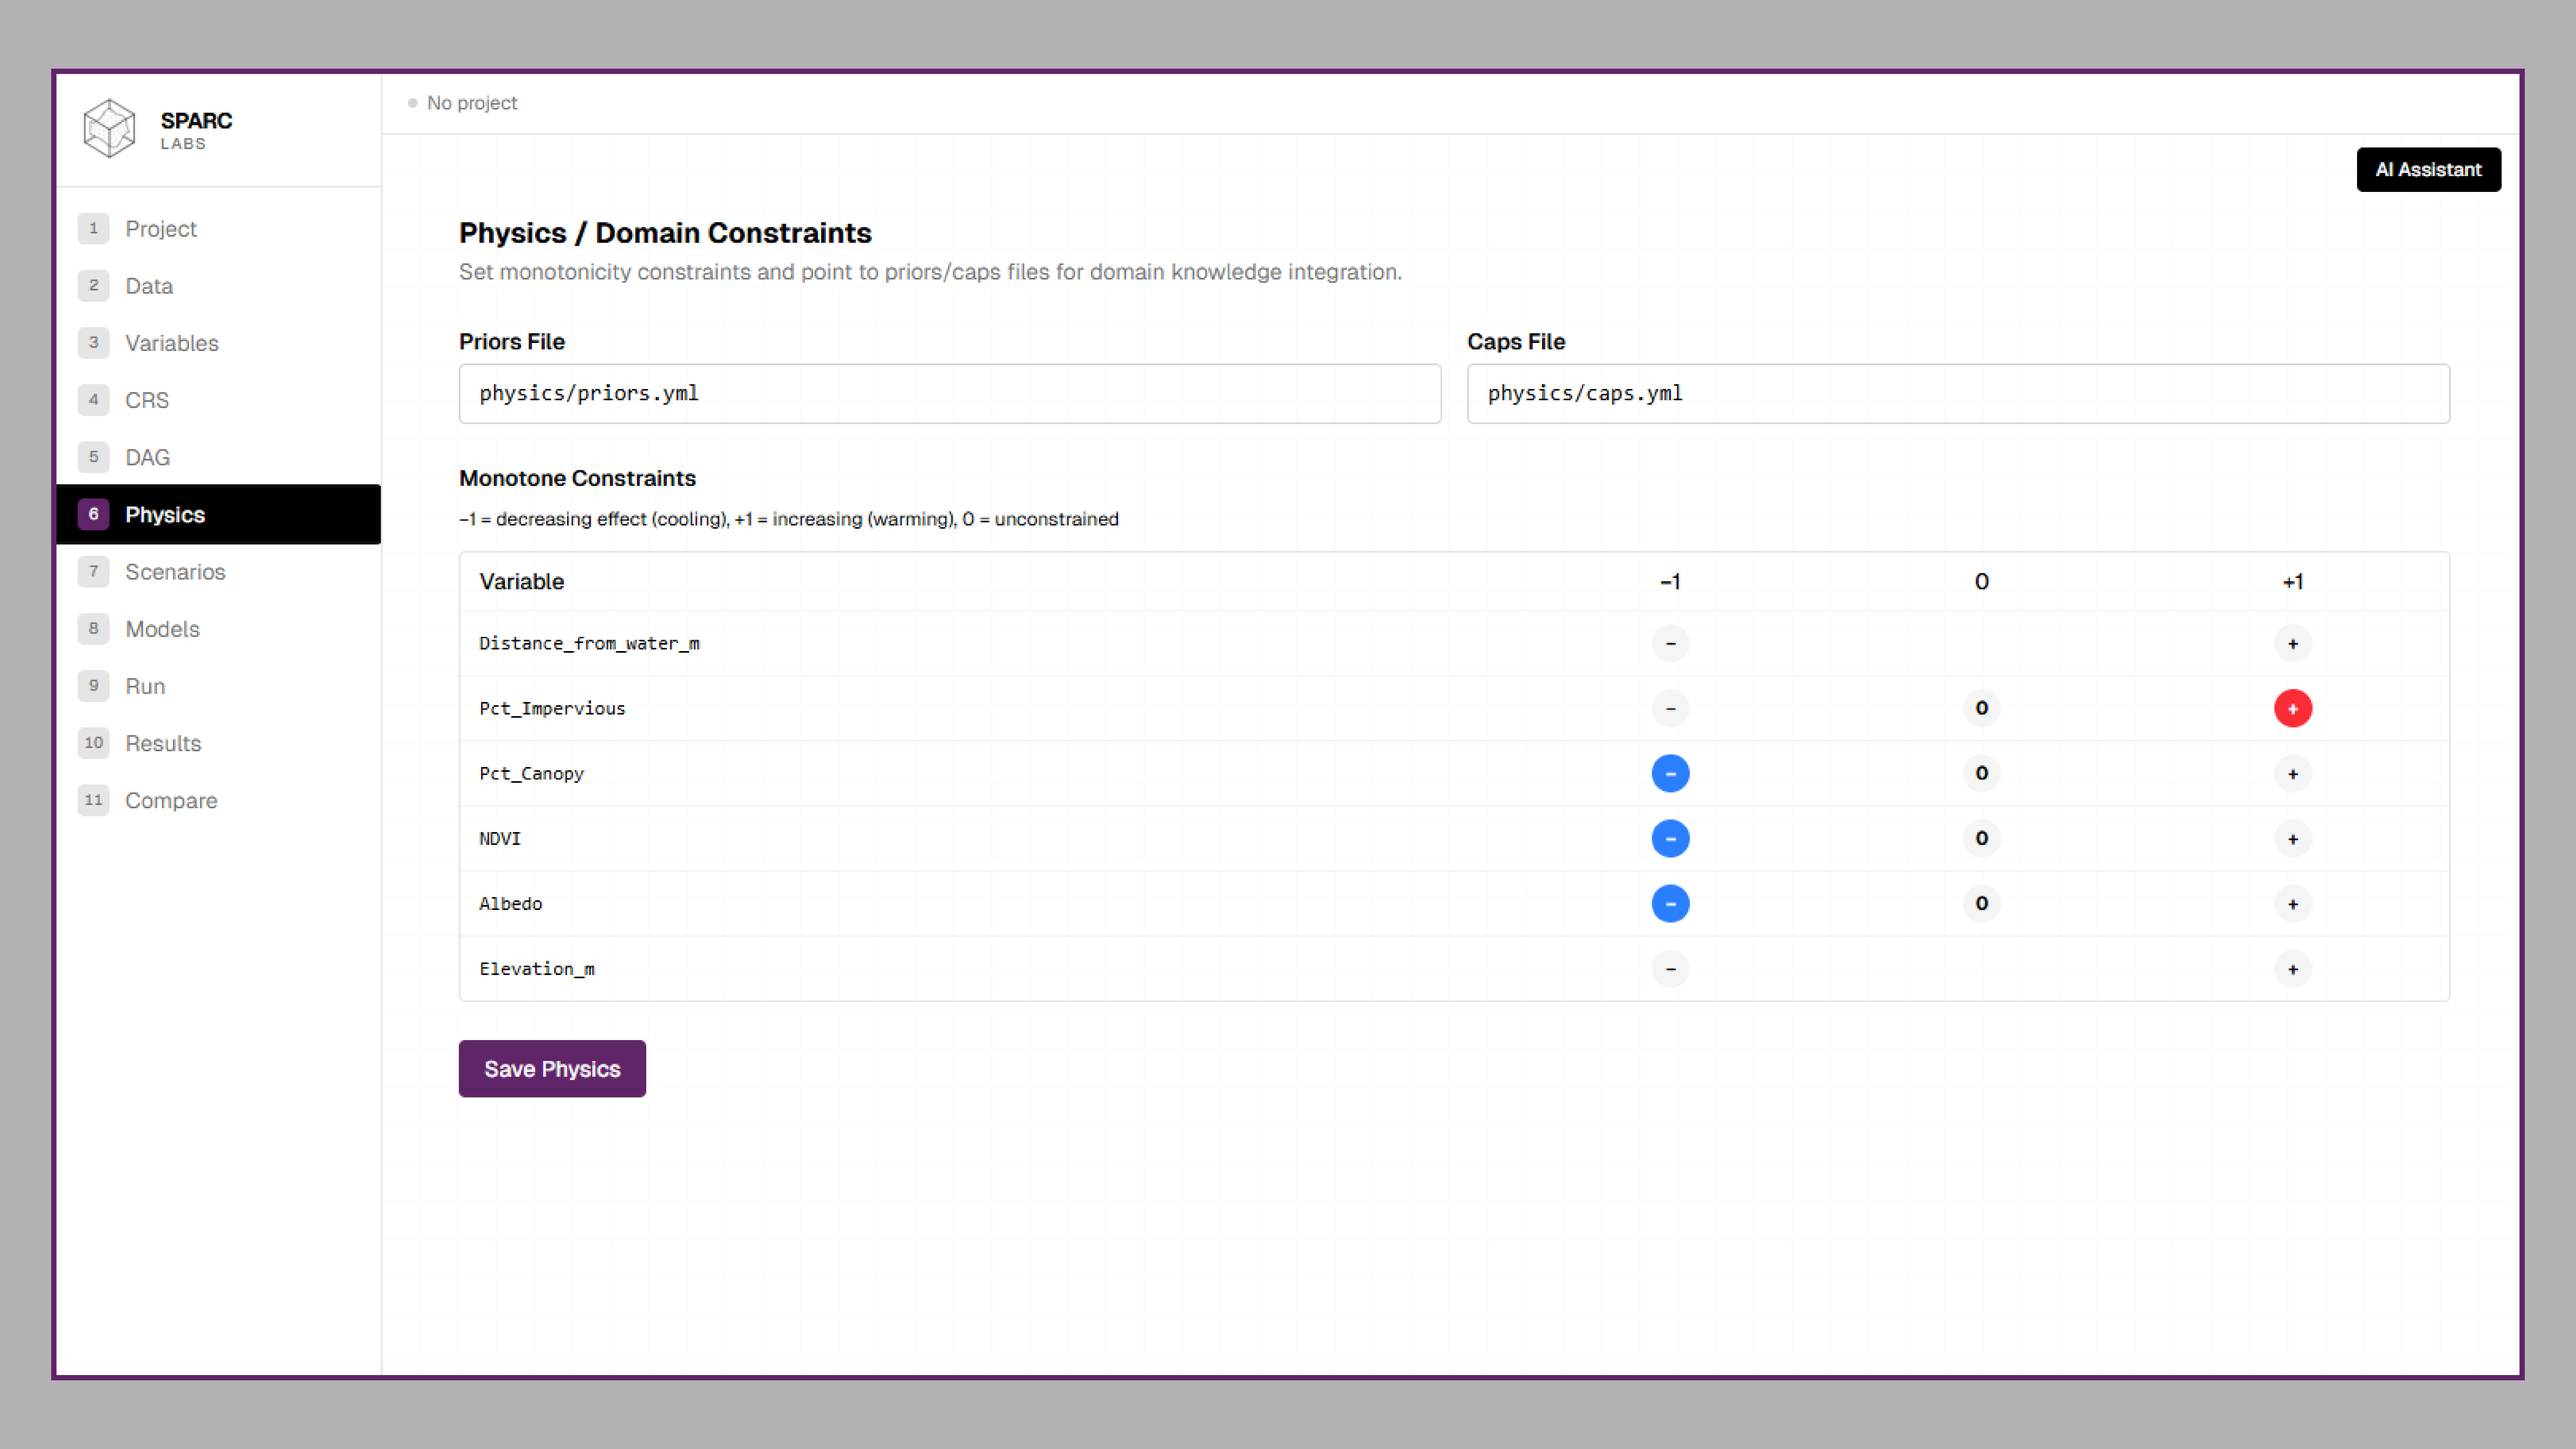
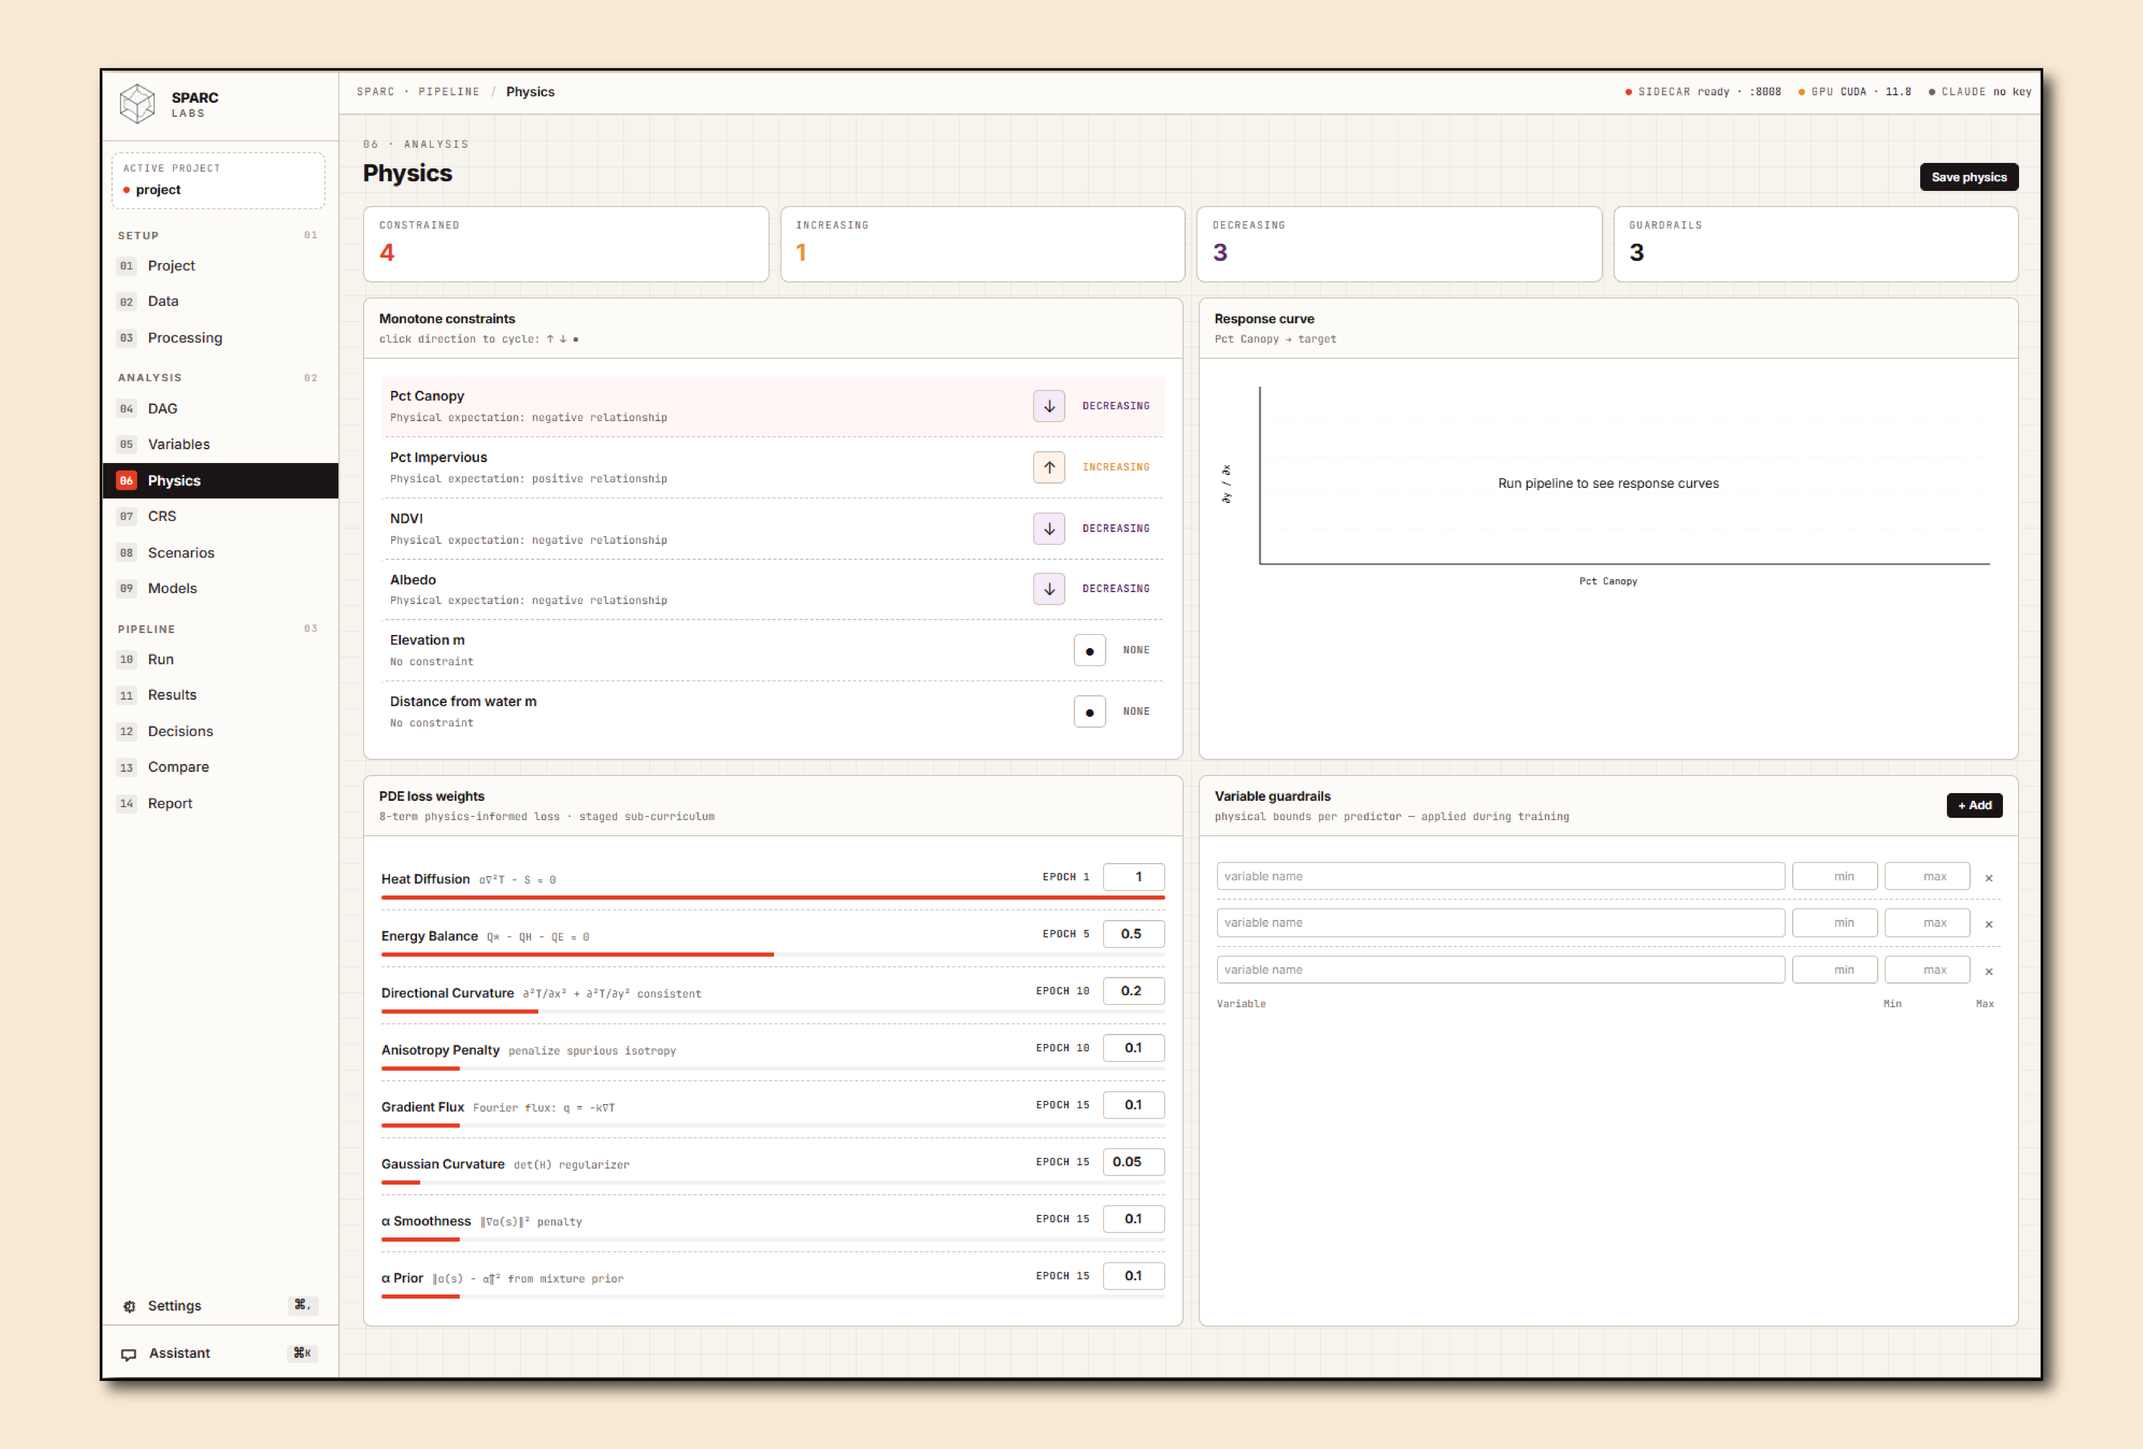
README Update

diff --git a/README.md b/README.md
@@ -16,9 +16,9 @@
 [![Platform](https://img.shields.io/badge/platform-Windows%20%7C%20macOS%20%7C%20Linux-lightgrey.svg)](#installation)
 [![Academic Partnerships](https://img.shields.io/badge/open%20for-Academic%20Partnerships-8A2BE2.svg)](mailto:sparcurbanlabs@gmail.com)
 
-**SPARC turns environmental and infrastructure data into causal, uncertainty-quantified intervention scenarios — powered by physics-constrained spatial machine learning.**
+**SPARC turns environmental and infrastructure data into causal, uncertainty-quantified intervention scenarios — powered by physics-constrained spatial machine learning and Bayesian causal inference.**
 
-Published in [*Urban Climate* (2025)](https://doi.org/10.1016/j.uclim.2025.102671), SPARC has demonstrated **91.5% R²** on urban heat island prediction in Providence, RI, and has been applied to **ForceSMIP climate forcing attribution** at global scale. The pipeline trains geographically-weighted model ensembles, validates causal relationships via directed acyclic graphs (DAGs), and simulates "what-if" scenarios with built-in uncertainty quantification — all from a single `project.yml` configuration file across **13 domain templates**.
+Published in [*Urban Climate* (2025)](https://doi.org/10.1016/j.uclim.2025.102671), SPARC has demonstrated **94.2% R²** on urban heat island prediction in Providence, RI, and has been applied to **ForceSMIP climate forcing attribution** at global scale. The pipeline trains geographically-weighted base models, fuses them through a **differentiable neural meta-learner with PDE-aware physics constraints**, validates causal structure with **NUTS posterior sampling** and **MC³ DAG search**, and simulates "what-if" scenarios with built-in uncertainty quantification — all from a single `project.yml` configuration file across **13 domain templates**.
 
 > **Get started:** [Watch the demo](#see-sparc-in-action) · [Try it locally](#quick-start) · [Download the desktop app](#desktop-app) · Interested in piloting? [Contact us](mailto:sparcurbanlabs@gmail.com)
 
@@ -32,7 +32,7 @@ Published in [*Urban Climate* (2025)](https://doi.org/10.1016/j.uclim.2025.10267
 - [Installation](#installation)
 - [Quick Start](#quick-start)
 - [Desktop App](#desktop-app)
-- [Results: Urban Heat Island (Brown UHI)](#results-urban-heat-island-brown-uhi)
+- [Results: Urban Heat Island](#results-urban-heat-island-brown-uhi)
 - [Results: ForceSMIP Climate Forcing Attribution](#results-forcesmip-climate-forcing-attribution)
 - [Interpreting Results](#interpreting-results)
 - [Limitations & Assumptions](#limitations--assumptions)
@@ -56,14 +56,14 @@ Published in [*Urban Climate* (2025)](https://doi.org/10.1016/j.uclim.2025.10267
 
 | | |
 |:---:|:---:|
-| ![Project Setup](docs/screenshots/01-project-setup.png) | ![Data Upload](docs/screenshots/02-data-upload.png) |
-| *Project setup and template selection* | *Data upload and preview — 54,701 rows at a glance* |
-| ![DAG Builder](docs/screenshots/03-dag-builder.png) | ![Physics Config](docs/screenshots/04-physics-config.png) |
-| *Visual causal DAG editor with drag-and-drop edges* | *Physics constraints: monotone signs, priors, and caps* |
-| ![Models & Pipeline](docs/screenshots/05-models.png) | ![Pipeline Running](docs/screenshots/06-pipeline_running.png) |
-| *Model configuration and feature flags* | *Pipeline execution with live terminal output* |
-| ![Correlogram Results](docs/screenshots/07-correlogram_results.png) | ![Spatial CV Results](docs/screenshots/08-spatial_cv_table.png) |
-| *Stage 0 correlogram — auto-detected bandwidths and block sizes* | *Stage 2 results — meta-ensemble predictions vs. actuals* |
+| ![Data Processing](docs/screenshots/01-Processing.png) | ![DAG Builder](docs/screenshots/02-dag-builder.png) |
+| *Upload Rasters & Shapefiles for Processing* | *Visual Causal DAG Editor with Drag-and-Drop Edges* |
+| ![Variable Review](docs/screenshots/03-variables.png) | ![Physics Config](docs/screenshots/04-physics-config.png) |
+| *Review Variable Correlation and Stats* | *Physics Constraints: PDEs, Priors, and More* |
+| ![Scenario Builder](docs/screenshots/05-scenarios.png) | ![Pipeline Running](docs/screenshots/06-run.png) |
+| *Build Scenarios to Trial* | *Pipeline Execution with Live Terminal Output* |
+| ![Results Page](docs/screenshots/07-results.png) | ![Report Export](docs/screenshots/08-report.png) |
+| *Review Model Predictions, Statistics, Dose-Response Curves, and More* | *Export Reports for Specific Audiences* |
 
 ---
 
@@ -76,11 +76,11 @@ Stage 0   Correlogram Analysis            Moran's I at multiple lags → auto-de
      │
 Stage 1   GWEN Variable Selection         Geographically-weighted elastic net ranks predictors (optional)
      │
-Stage 2   Spatial Cross-Validation        Train & evaluate four base models + meta-ensemble
+Stage 2   Spatial CV + Neural Meta        Four base models → differentiable surrogates → neural meta-learner
      │
-Stage 3   Causal Validation               Estimate causal effects via a DAG with refutation tests
+Stage 3   Bayesian Causal Validation      DML + NUTS posteriors + MC³ DAG search + DoWhy refutations
      │
-Stage 4   Scenario Simulation             Physics-constrained "what-if" predictions with uncertainty
+Stage 4   Scenario Simulation             Physics/PDE-constrained "what-if" predictions with uncertainty
 ```
 
 ### Stage 0 — Correlogram Analysis
@@ -91,9 +91,9 @@ Computes Moran's I at multiple distance lags to quantify spatial autocorrelation
 
 A geographically-weighted elastic net (GWEN) ranks predictor importance across space. Uses correlogram-derived bandwidths for spatially-aware feature selection. A human checkpoint allows review before proceeding.
 
-### Stage 2 — Spatial Cross-Validation & Model Training
+### Stage 2 — Spatial Cross-Validation & Neural Meta-Learner
 
-Trains four base models on spatially-buffered folds to prevent spatial leakage:
+Trains four classical base models on spatially-buffered folds to prevent spatial leakage:
 
 | Model | Type | Description |
 |-------|------|-------------|
@@ -102,11 +102,24 @@ Trains four base models on spatially-buffered folds to prevent spatial leakage:
 | **GWRF** | Local non-linear | Geographically weighted random forest |
 | **GGPGAM** | Semi-parametric | Geographically guided generalized additive model |
 
-A **LightGBM meta-ensemble** stacks base model predictions with monotonic constraints from the physics configuration and is tuned via Optuna. Laplacian eigenmaps can be included as spatial features.
+These base models are then mirrored by **differentiable PyTorch surrogates** (`DifferentiableGWR`, `DifferentiableGWRF`, `DifferentiableGGPGAM`) that are pre-trained against the classical out-of-fold predictions and fine-tuned end-to-end. Two meta-learner backends are available:
 
-### Stage 3 — Causal Validation
+| Backend | Selected By | Description |
+|---------|-------------|-------------|
+| **`neural`** *(default)* | `models.meta_learner: neural` | `SPARCMetaLearner` — fuses surrogate outputs with sinusoidal spatial encodings, FiLM-conditioned physics features, a `ProcessRateNet` α-gate, and exceedance heads. MC-Dropout produces per-point predictive uncertainty. Optional **PDE-loss** terms (energy balance, advection–diffusion) act as soft physics constraints during training. |
+| **`ensemble`** | `models.meta_learner: ensemble` | Legacy LightGBM stack with monotonic constraints, tuned via Optuna. Retained for fast/baseline runs. |
 
-Uses a user-defined DAG to estimate structural causal coefficients (via DML, HGB, or OLS), blends them with literature priors through shrinkage, and runs DoWhy refutation tests (placebo, random common cause, subset, unobserved confounding). Optionally estimates heterogeneous treatment effects (CATE) via EconML's CausalForestDML.
+Laplacian eigenmaps and `ClimateEncoder` / `PDEEncoder` features can be injected as spatial side-information to either backend.
+
+### Stage 3 — Bayesian Causal Validation
+
+Uses a user-defined DAG to estimate structural causal coefficients via DML (with HGB or OLS fallbacks), blends them with literature priors through shrinkage, and runs DoWhy refutation tests (placebo, random common cause, subset, unobserved confounding). When the neural meta-learner from Stage 2 is available, SPARC additionally runs:
+
+- **NUTS posterior sampling** (No-U-Turn Sampler) over structural coefficients, using the neural model as the likelihood — producing full posterior distributions rather than point estimates.
+- **MC³ (Metropolis-Coupled MCMC) DAG search** over edge inclusion, yielding posterior edge-inclusion probabilities, a median-probability DAG, and acceptance diagnostics.
+- **CATE estimation** via EconML's `CausalForestDML` for heterogeneous treatment effects.
+
+Outputs include `edge_inclusion_probs.csv`, `median_probability_dag.json`, `mc3_summary.json`, and `nuts_results.json`.
 
 ### Stage 4 — Scenario Simulation
 
@@ -116,9 +129,9 @@ Predicts outcomes under user-defined interventions in three complementary modes:
 |------|--------|------------------|
 | **Mode 1** | Ensemble re-prediction | Full non-linear interactions, model agreement |
 | **Mode 2** | DAG coefficients × local MGWR weights | Spatial heterogeneity, causal mediation |
-| **Mode 3** | Monte Carlo uncertainty propagation | Credible intervals (5th / 50th / 95th) |
+| **Mode 3** | Monte Carlo uncertainty propagation | Credible intervals (5th / 50th / 95th), seeded from NUTS posteriors when available |
 
-Physics guardrails are applied automatically: variable bounds, diminishing returns (√ taper), sign enforcement, delta caps, extrapolation guards (Mahalanobis distance), and combined constraints (e.g., Canopy + Impervious ≤ 100%).
+Physics guardrails are applied automatically: variable bounds, diminishing returns (√ taper), sign enforcement, delta caps, extrapolation guards (Mahalanobis distance), combined constraints (e.g., Canopy + Impervious ≤ 100%), and optional **PDE-residual penalties** (energy-balance, advection–diffusion) carried over from the neural meta-learner.
 
 ---
 
@@ -436,18 +449,26 @@ Have ideas or want to collaborate? Reach out at [sparcurbanlabs@gmail.com](mailt
 ## Project Structure
 
 ```
-GW3C_v2.1/
+sparc-resilience/
 ├── sparc/                   # Main package
 │   ├── __main__.py          # CLI entry point (sparc init / validate / run / scenario / report)
 │   ├── config/              # Configuration loader, JSON schema validation
 │   ├── data/                # Data utilities, temporal helpers
-│   ├── models/              # OLS, GWR, GWRF, GGPGAM, Deep Kriging, Meta-ensemble, GWEN
+│   ├── models/              # OLS, GWR, GWRF, GGPGAM, GWEN, differentiable surrogates,
+│   │                        # SPARCMetaLearner (neural), ProcessRateNet, ClimateEncoder, PDEEncoder
 │   ├── features/            # Laplacian eigenmaps, fold-aware spatial features
+│   ├── physics/             # PDE operators, PDE loss, energy balance, boundary/initial conditions
+│   ├── training/            # Curriculum, replay, EWC, CMA-ES, optimizer & loss helpers
+│   ├── inference/           # Zero-shot and few-shot inference utilities
 │   ├── causal/              # DAG definition, DoWhy integration, CATE, counterfactuals
 │   ├── evaluation/          # Model evaluation metrics and diagnostics
 │   ├── interventions/       # Scenario simulator, physics priors, extrapolation guards
-│   ├── run/                 # Pipeline orchestration (per-stage executors)
-│   └── ui/                  # Interactive UI
+│   ├── run/                 # Pipeline orchestration — incl. v2_neural_training & v2_bayesian_causal
+│   │                        # (NUTS + MC³), correlogram, GWEN, spatial CV, scenario runners
+│   ├── scenario/            # Scenario builder/validator helpers
+│   ├── report/              # Report generation
+│   ├── registry/            # Domain template registry
+│   └── server/              # Local pipeline/IPC server for the desktop app
 ├── templates/               # Domain templates (13 domains)
 ├── examples/                # Example projects (Brown UHI)
 ├── tests/                   # Smoke tests
@@ -476,8 +497,8 @@ Every project is driven by a single `project.yml` file with these sections:
 | `causal` | No | DAG file, estimator (ols/hgb/dml), actionable/fixed vars |
 | `output` | No | Output directory structure |
 | `pipeline` | No | Random seed, n_folds, fast_mode, MC settings |
-| `flags` | No | Feature flags (GWEN, GWRF, Laplacian) |
-| `models` | No | Per-model hyperparameters |
+| `flags` | No | Feature flags (GWEN, GWRF, Laplacian, PDE loss, NUTS, MC³) |
+| `models` | No | `meta_learner` (`neural` / `ensemble`) and per-model hyperparameters (neural hidden dim, dropout, MC-Dropout samples, exceedance thresholds, etc.) |
 | `scenarios` | No | Single-variable intervention definitions |
 | `joint_scenarios` | No | Multi-variable intervention definitions |
 
@@ -491,8 +512,9 @@ See [`docs/MANUAL.md`](docs/MANUAL.md) for the full configuration reference and 
 |----------|----------|
 | Scientific | numpy, pandas, scipy, scikit-learn |
 | Spatial | geopandas, libpysal, esda, mgwr, pyproj |
-| Modeling | lightgbm, optuna, pygam, torch |
-| Causal | dowhy, networkx, econml |
+| Classical models | lightgbm, optuna, pygam |
+| Neural meta-learner | torch (PyTorch) — surrogates, `SPARCMetaLearner`, `ProcessRateNet`, PDE loss, MC-Dropout |
+| Bayesian causal | dowhy, networkx, econml, pymc / NumPyro (NUTS), custom MC³ sampler |
 | Utilities | matplotlib, seaborn, joblib, pyyaml, jsonschema |
 
 ---
